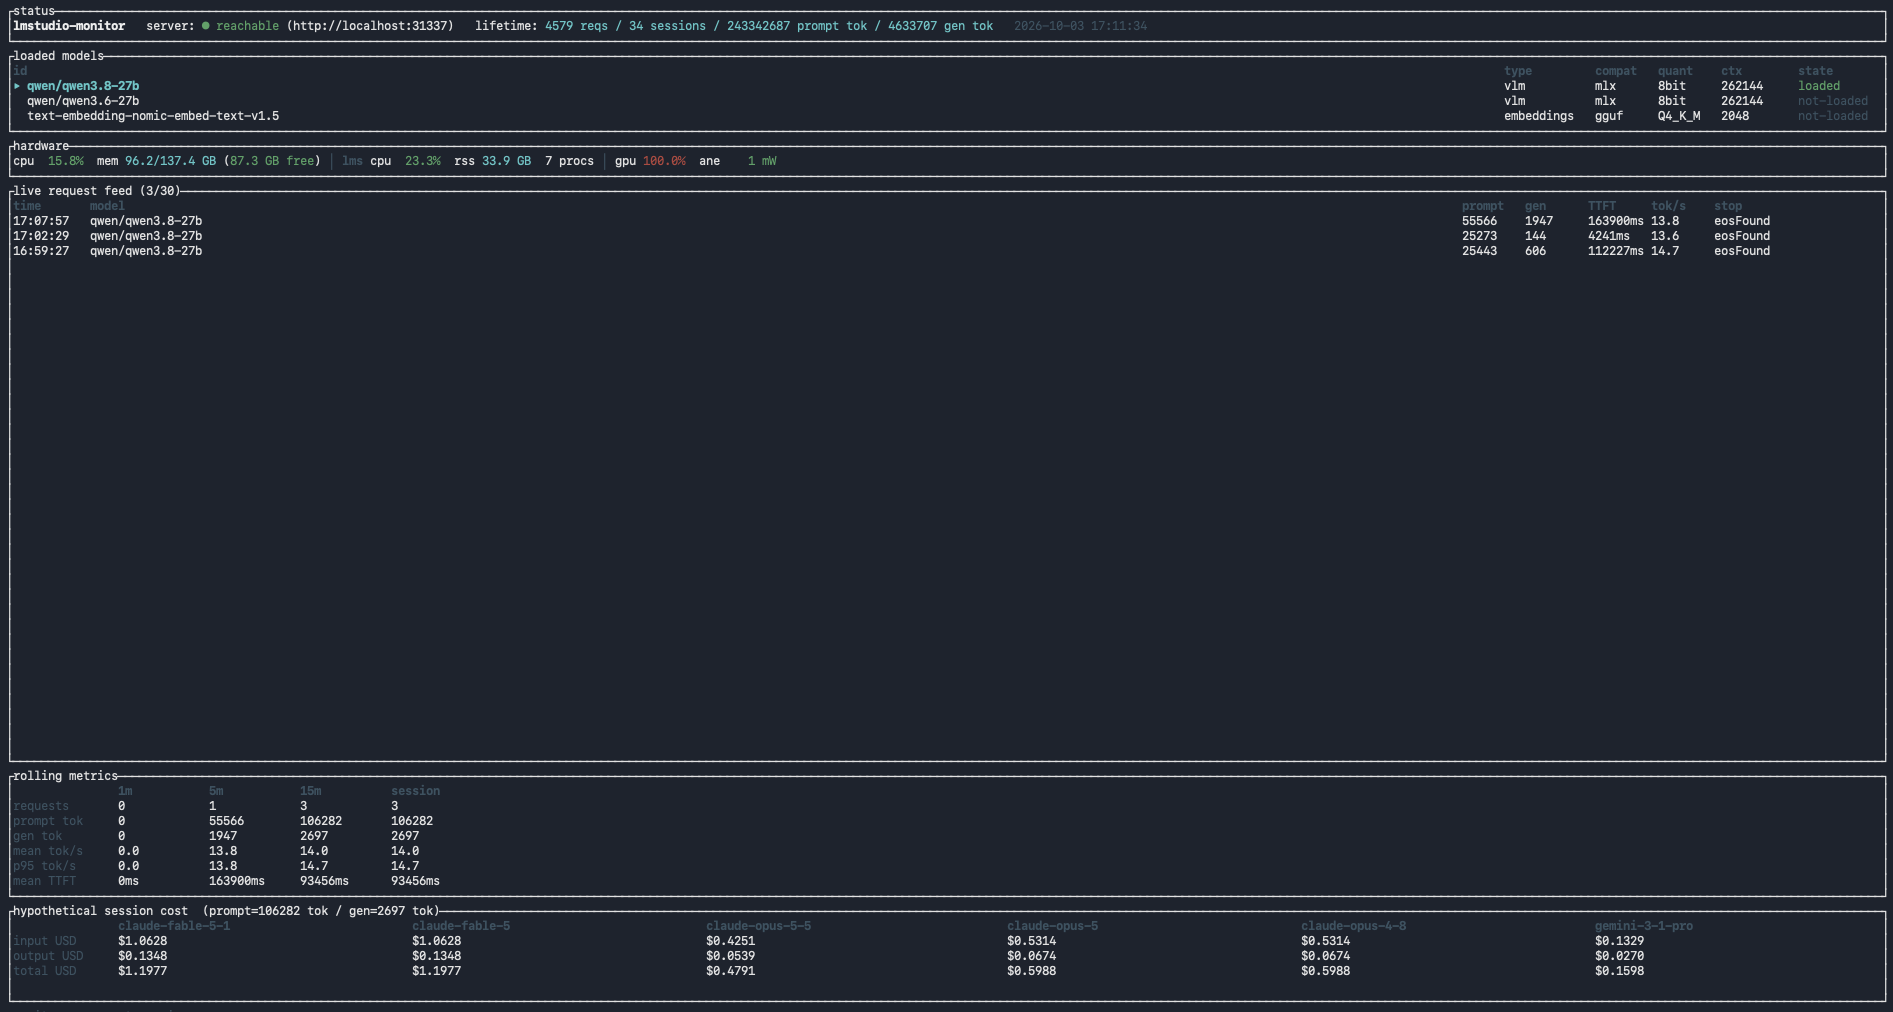
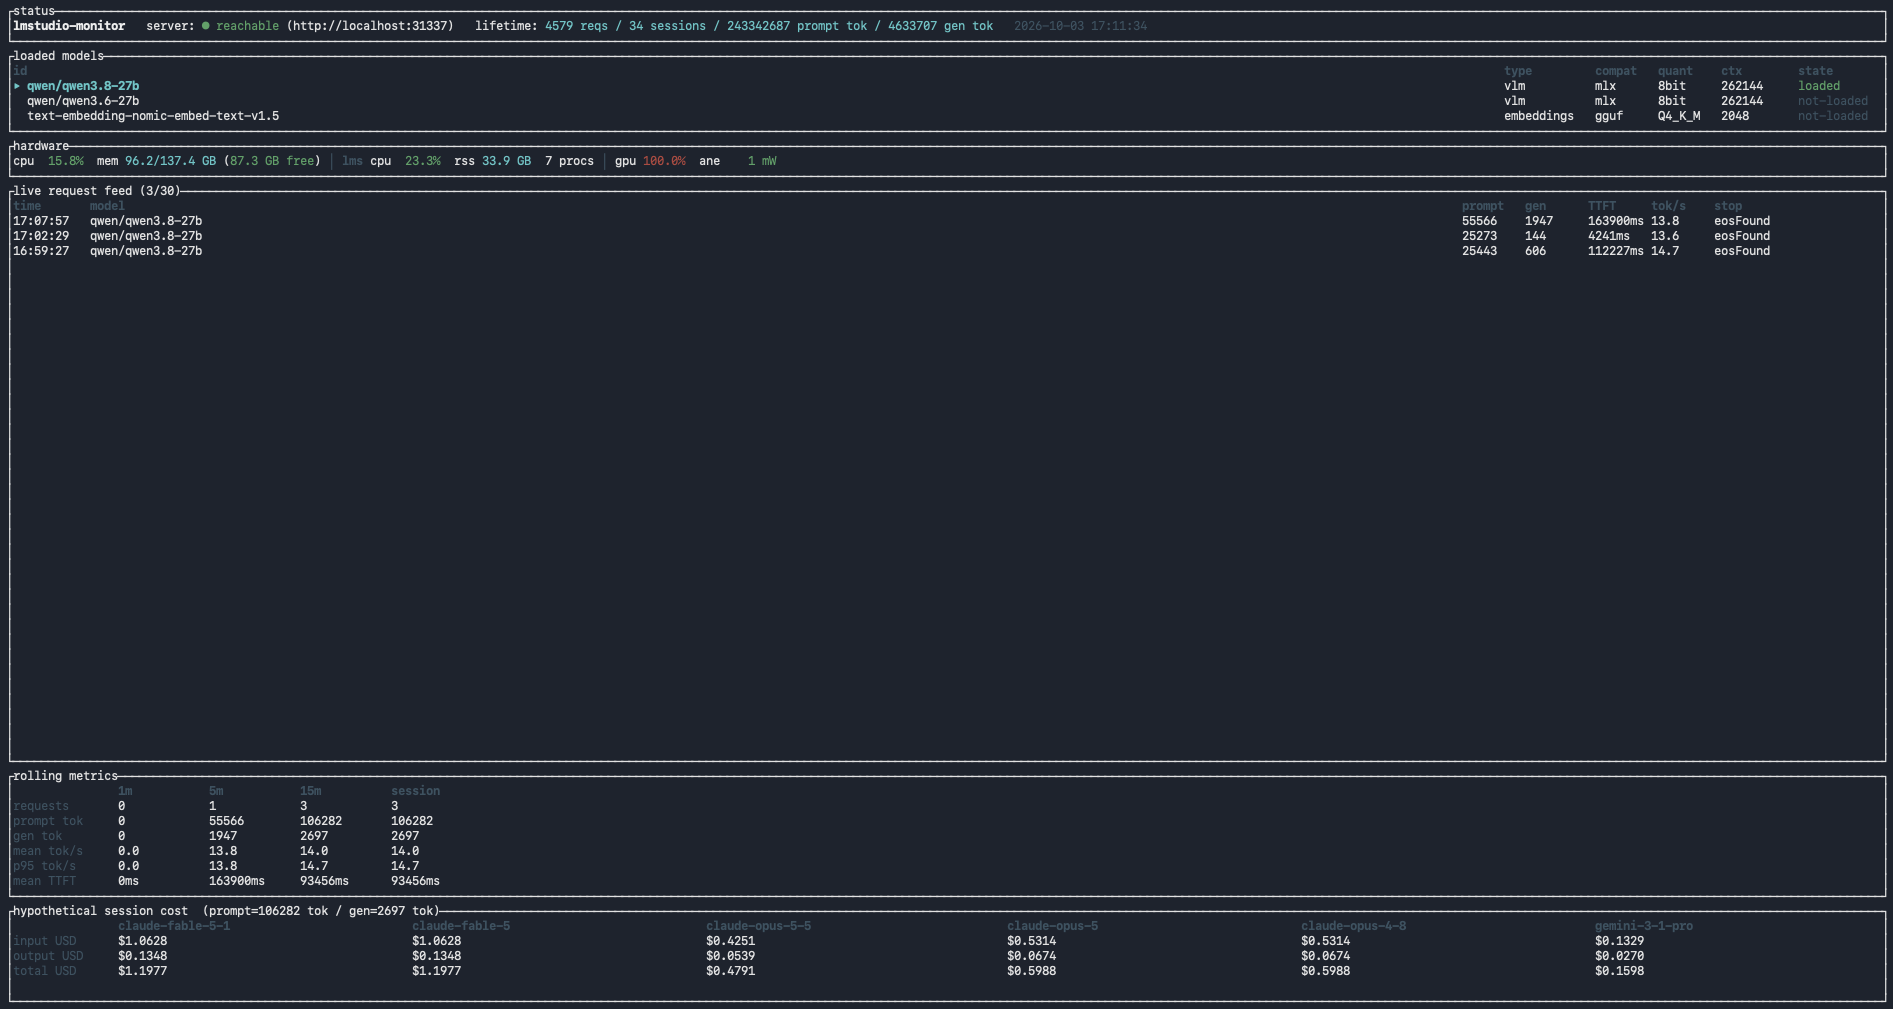
Default to LM Studio's port 1234, cross-link Ollama-Monitor
- --base-url now defaults to http://localhost:1234 (LM Studio's stock
  port) and can be set with LMS_BASE_URL, like OLLAMA_URL in
  Ollama-Monitor and LMS_BIN / LMS_LOG here
- README and ARCHITECTURE link the sibling repo; Cargo.toml gains a
  repository field
- Screenshot cropped to end at the cost panel instead of mid-footer

Changed region(s): [[0.0, 0.7374, 0.9974, 1.0], [0.0, 0.0922, 0.9974, 0.2765], [0.7792, 0.1843, 0.935, 0.2458]]

diff --git a/src/main.rs b/src/main.rs
@@ -20,8 +20,8 @@ use tokio::sync::{mpsc, watch};
 #[derive(Parser, Debug)]
 #[command(version, about)]
 struct Cli {
-    /// Base URL of the LM Studio HTTP server.
-    #[arg(long, default_value = "http://localhost:31337")]
+    /// Base URL of the LM Studio HTTP server (LM Studio's default port is 1234).
+    #[arg(long, env = "LMS_BASE_URL", default_value = "http://localhost:1234")]
     base_url: String,
 
     /// Path to user config TOML (defaults to XDG / macOS app-support dir).

diff --git a/src/api.rs b/src/api.rs
@@ -129,10 +129,10 @@ mod tests {
 
     #[test]
     fn list_models_url_trims_trailing_slash() {
-        let trimmed = "http://localhost:31337/".trim_end_matches('/');
+        let trimmed = "http://localhost:1234/".trim_end_matches('/');
         assert_eq!(
             format!("{}/api/v0/models", trimmed),
-            "http://localhost:31337/api/v0/models"
+            "http://localhost:1234/api/v0/models"
         );
     }
 }

diff --git a/src/tui/mod.rs b/src/tui/mod.rs
@@ -259,7 +259,7 @@ mod tests {
     use ratatui::backend::TestBackend;
 
     fn sample_state() -> AppState {
-        let mut state = AppState::new("http://localhost:31337".into(), PricingTable::defaults());
+        let mut state = AppState::new("http://localhost:1234".into(), PricingTable::defaults());
         state.hardware = HardwareSnapshot {
             system_cpu_percent: 23.4,
             mem_used_bytes: 38_200_000_000,

diff --git a/README.md b/README.md
@@ -40,10 +40,10 @@ cargo install --path .         # or: put lmstudio-monitor on your PATH via ~/.ca
 ## Usage
 
 ```sh
-lmstudio-monitor --base-url http://localhost:1234
+lmstudio-monitor
 ```
 
-The default `--base-url` is `http://localhost:31337`. LM Studio's own default port is 1234, so pass `--base-url` unless you've moved the server to 31337.
+It connects to LM Studio's default address, `http://localhost:1234`. If your server listens elsewhere, pass `--base-url` or set `LMS_BASE_URL`.
 
 At launch it asks for your sudo password, used only to start `powermetrics` for the GPU and Neural Engine figures. Run it as your normal user, not under `sudo`. If sudo fails, those two figures show `n/a` and everything else still works.
 
@@ -53,7 +53,7 @@ At launch it asks for your sudo password, used only to start `powermetrics` for 
 
 | flag | default | purpose |
 |---|---|---|
-| `--base-url <URL>` | `http://localhost:31337` | LM Studio server |
+| `--base-url <URL>` | `http://localhost:1234` (env `LMS_BASE_URL`) | LM Studio server |
 | `--lms-bin <PATH>` | `~/.lmstudio/bin/lms` (env `LMS_BIN`) | the `lms` CLI |
 | `--config <PATH>` | `~/Library/Application Support/lmstudio-monitor/config.toml` | optional config file |
 | `--db <PATH>` | `~/Library/Application Support/lmstudio-monitor/usage.db` | SQLite database |
@@ -107,7 +107,7 @@ cargo fmt --check && cargo clippy --all-targets -- -D warnings
 
 CI ([`.gitlab-ci.yml`](.gitlab-ci.yml)) runs the same checks on Linux. [ARCHITECTURE.md](ARCHITECTURE.md) covers the module layout, data flow and design decisions.
 
-Ollama-Monitor is a sibling project that shows the same dashboard for [Ollama](https://ollama.com).
+[Ollama-Monitor](https://github.com/Ward-Software-Defined-Systems/Ollama-Monitor) is a sibling project that shows the same dashboard for Ollama.
 
 ## License
 

diff --git a/ARCHITECTURE.md b/ARCHITECTURE.md
@@ -142,7 +142,7 @@ The cpu_power sampler is deliberately included alongside ane_power — on M4 Max
 | hypothetical cost | 7 | per-frontier-model session-cumulative input / output / total USD |
 | footer | 1 | `q quit · r reset session · p pause` |
 
-Ollama-Monitor, the sibling project for Ollama, ports this TUI panel for panel: its `tui/layout.rs` is a byte-identical copy and its `tui/widgets.rs` differs only in data mapping plus a few Ollama-only extras. Change both together.
+[Ollama-Monitor](https://github.com/Ward-Software-Defined-Systems/Ollama-Monitor), the sibling project for Ollama, ports this TUI panel for panel: its `tui/layout.rs` is a byte-identical copy and its `tui/widgets.rs` differs only in data mapping plus a few Ollama-only extras. Change both together.
 
 Render tick: 250 ms. Channel reads non-blocking via `tokio::select!`. Input events arrive from a dedicated blocking thread (sync `crossterm::event::read` → mpsc → main loop).
 
